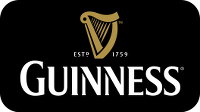
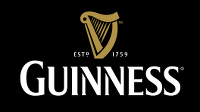
Fixes to bubble scroller.

diff --git a/public/opp/io.overplay.bubbleslider/app/tv/app/components/scroller/ScrollerController.js b/public/opp/io.overplay.bubbleslider/app/tv/app/components/scroller/ScrollerController.js
@@ -7,14 +7,9 @@ app.controller( "scrollerController",
 
         console.log( "Loading scrollerController" );
 
-        $scope.messageArray = [ "Don't forget St. Patrick's at O'Flaherty's" ];
+        $scope.messageArray = [ "Don't forget St. Patrick's at O'Flaherty's", "2 for 1 shots of Jameson from 3 to 6", "Try our Bangers and Mash" ];
 
         function logLead() { return "scrollerController: "; }
-
-        function updateLocalData() {
-
-
-        }
 
         function modelUpdate( data ) {
 
@@ -40,159 +35,15 @@ app.controller( "scrollerController",
 
         }
 
-        var logos = [
-            //"assets/img/logo2016.png",
-            "assets/img/Overplay_Logo_361_WHT.png",
-            "assets/img/Overplay_Logo_368_WHT.png",
-            "assets/img/Overplay_Logo_376_WHT.png",
-            "assets/img/Overplay_Logo_7488_WHT.png",
 
-        ];
-
-        var lidx = 0;
         $scope.logo = "assets/img/Overplay_Logo_361_WHT.png";
 
         updateFromRemote();
 
-        /*
-        $interval( function(){
-            lidx++;
-            if (lidx==logos.length) lidx=0;
-            $scope.logo = logos[lidx];
-
-        }, 3000);
-        */
 
     } );
 
-app.directive( 'marqueeScroller', [
-        '$log',
-        function ( $log ) {
-            return {
-                restrict:    'E',
-                scope:       {
-                    messageArray: '='
-                },
-                templateUrl: 'app/components/scroller/marqueescroller.template.html',
-                link:        function ( scope, elem, attrs ) {
-                    "use strict";
-                    var idx = 0;
-                    scope.currentScroller = scope.messageArray[ idx ];
 
-                    elem.bind( 'onfinish', function ( ev ) {
-                        idx++;
-                        if ( idx >= scope.messageArray.length ) idx = 0;
-                        scope.currentScroller = scope.messageArray[ idx ];
-                    } );
-
-                }
-            }
-        } ]
-);
-
-/**
- * Chumby does a shittly job of CSS transition scrolling, so we do it manually
- */
-app.directive( 'cssScroller', [
-        '$log', '$timeout', '$window',
-        function ( $log, $timeout, $window ) {
-            return {
-                restrict:    'E',
-                scope:       {
-                    messageArray: '='
-                },
-                templateUrl: 'app/components/scroller/cssscroller.template.html',
-                link:        function ( scope, elem, attrs ) {
-                    "use strict";
-                    var idx = 0;
-                    var leftPixel = $window.innerWidth + 20;
-                    var messageWidth = 0;
-                    var PIXELS_PER_FRAME = 4;
-                    var FPS = 30;
-
-                    scope.message = { text: "", leftPos: leftPixel + 'px' };
-
-                    scope.message.text = scope.messageArray[ idx ];
-
-
-                    function setLeftPos() {
-                        scope.message.leftPos = leftPixel + 'px';
-                        $log.info( "LEFT POS: " + scope.message.leftPos );
-
-                    }
-
-                    function nextMsg() {
-                        $log.info( "NEXT MESSAGE" );
-                        idx++;
-                        if ( idx == scope.messageArray.length ) idx = 0;
-                        scope.message.text = scope.messageArray[ idx ];
-
-                        messageWidth = scope.message.text.length * 40;
-
-                        //$log.info( "NEXT MESSAGE: " + scope.message.text + " width: " + messageWidth );
-
-                        leftPixel = $window.innerWidth + 20;
-                        setLeftPos();
-                        $timeout( scroll, 10 );
-                    }
-
-
-                    function scroll() {
-                        leftPixel -= PIXELS_PER_FRAME;
-                        setLeftPos();
-                        if ( leftPixel < 0 ) {
-                            nextMsg();
-
-                        } else {
-                            $timeout( scroll, 1000 / FPS );
-
-                        }
-                    }
-
-                    $timeout( nextMsg, 20 );
-
-                }
-            }
-        } ]
-);
-
-app.directive( 'cssFader', [
-        '$log', '$timeout',
-        function ( $log, $timeout ) {
-            return {
-                restrict:    'E',
-                scope:       {
-                    messageArray: '='
-                },
-                templateUrl: 'app/components/scroller/cssfader.template.html',
-                link:        function ( scope, elem, attrs ) {
-                    "use strict";
-                    var idx = 0;
-
-                    scope.message = { text: "", fadein: false };
-                    scope.message.text = scope.messageArray[ idx ];
-
-
-                    function nextMsg() {
-                        idx++;
-                        if ( idx == scope.messageArray.length ) idx = 0;
-                        scope.message.fadein = false;
-                        $timeout( scroll, 2000 );
-                    }
-
-
-                    function scroll() {
-                        scope.message.fadein = true;
-                        scope.message.text = scope.messageArray[ idx ];
-                        $timeout( nextMsg, 8000 );
-                    }
-
-                    $timeout( scroll, 2000 );
-
-                }
-            }
-        } ]
-);
 
 app.directive( 'leftScrollerSp', [
     '$log', '$timeout', '$window',
@@ -209,7 +60,7 @@ app.directive( 'leftScrollerSp', [
                 var idx = 0;
                 var leftPixel = $window.innerWidth + 20;
                 var messageWidth = 0;
-                var PIXELS_PER_FRAME = 4;
+                var PIXELS_PER_FRAME = 10;
                 var FPS = 30;
                 var PIXELS_PER_CHAR = 30;
 

diff --git a/public/opp/io.overplay.bubbleslider/app/tv/assets/css/leftscroller.css b/public/opp/io.overplay.bubbleslider/app/tv/assets/css/leftscroller.css
@@ -12,7 +12,7 @@
 
 .text-holder {
     /*border: 1px solid mediumpurple;*/
-    height: 70px;
+    height: 80px;
     width: 80%;
     overflow: hidden;
 
@@ -28,12 +28,13 @@
     /*border: 1px dashed dodgerblue;*/
     font-size: 30px;
     color: white;
+    text-shadow: 1px 1px 0px rgba(0, 0, 0, 1);
     margin-right: 200px;
     margin-left: 200px;
-    height: 70px;
-    line-height: 70px;
+    height: 80px;
+    line-height: 80px;
     padding: 0 40px 0 40px;
-    background: url(../img/bubble-black-blue.png);
+    background: url(../img/blueback.png);
     background-size: contain;
     border-radius: 20px;
 
@@ -48,7 +49,7 @@
 .left-scroller-holder .logo {
     /*border: 1px solid lightslategray;*/
     position: absolute;
-    top: 0;
+    top: -10px;
     right: 50px;
     width: 200px;
     background-color: black;

diff --git a/public/opp/io.overplay.bubbleslider/app/tv/app/components/scroller/leftscrollersp.template.html b/public/opp/io.overplay.bubbleslider/app/tv/app/components/scroller/leftscrollersp.template.html
@@ -7,12 +7,6 @@
                      <div class="fl msg">{{ m }}</div>
                      <div class="fl msg-img"><img src="assets/img/guinness.png"/></div>
                 </span>
-
-                <!--<span class="msg">Message One</span>
-                <span class="msg">Message Two</span>
-                <span class="msg">Message Three, if You Could Not Guess</span>
-                <span class="msg">Message Four</span>
-                <span class="msg">Message Five</span>-->
             </div>
 
         </div>
